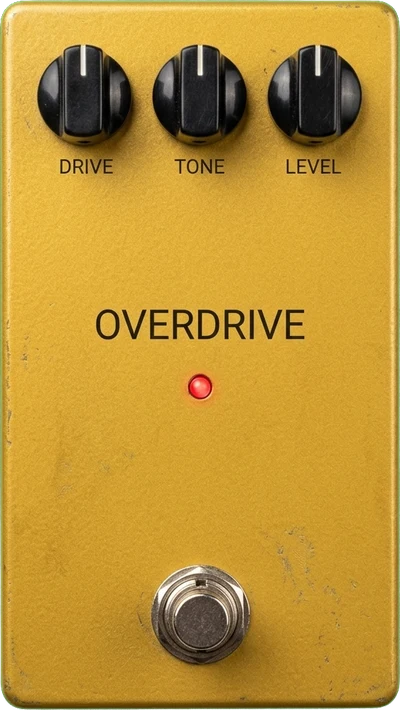
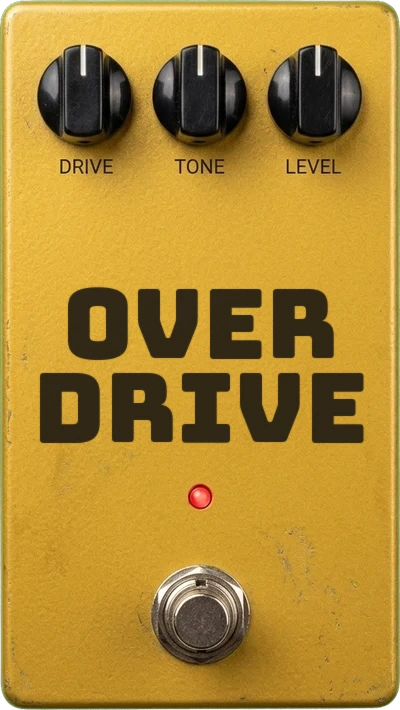
Photo skins: retitle pedals with display fonts, fill empty space, re-place LEDs
Big Muff/RAT 2/TS9 in Black Ops One; Overdrive/Compressor/Phase 90/Dyna Comp/Reverb in Bungee;
Chorus/Delay/Tremolo/Cry Baby in Righteous; SD-1 in Rubik Mono One. DS-1 keeps its own lettering.
Stacked names where the space is tall; Phase 90 and Compressor titles moved out of the value
band with the LED beside the footswitch; LEDs lowered on Overdrive/Tremolo/TS9/Dyna Comp.
CSS LED positions now match the photos (also fixes Big Muff, RAT 2, Cry Baby).

Claude-Session: https://claude.ai/code/session_01CWvZQgQQYmGZwEkUDMEGhG

Changed region(s): [[0.09, 0.4028, 0.93, 0.6507], [0.45, 0.6817, 0.54, 0.7437]]

diff --git a/js/pedal-registry.js b/js/pedal-registry.js
@@ -88,7 +88,7 @@ export const PEDAL_TYPES = [
   // ----- DYNAMICS -----
   {
     id: 'compressor', label: 'Compressor', category: 'dynamics', color: 'oklch(64% 0.03 250)',
-    skin: { src: 'img/compressor.webp', aspect: '400 / 723' },
+    skin: { src: 'img/compressor.webp?v=3', aspect: '400 / 723' },
     blurb: 'Evens out your dynamics — squashes loud notes and lifts quiet ones for a smoother, more consistent volume.',
     about: 'A compressor automatically reduces the volume of anything that crosses a threshold, then applies makeup gain to bring the overall level back up. The result is smoother, more consistent playing — quieter notes sustain longer and pick attacks feel less spiky. Classic for funk/country chicken-pickin\' and for tightening up a solo.',
     createNodes(ctx) {
@@ -112,7 +112,7 @@ export const PEDAL_TYPES = [
   },
   {
     id: 'vintagecomp', label: 'Dyna Comp', category: 'dynamics', color: 'oklch(55% 0.21 25)', brand: 'mxr', brandLabel: 'MXR',
-    skin: { src: 'img/vintagecomp.webp', aspect: '400 / 739' },
+    skin: { src: 'img/vintagecomp.webp?v=3', aspect: '400 / 739' },
     blurb: 'A single-pole ~1.5s envelope follower with just one knob — the MXR Dyna Comp\'s slow, simple squash.',
     about: 'Modeled on the MXR Dyna Comp: a CA3080 OTA driven by a single-pole envelope detector with a confirmed ~1.5s time constant (calculated from its own C8/R13 values), not the independently-adjustable fast attack/release of a modern compressor. Just one Sensitivity knob, no ratio/knee/attack/release controls, matching the real pedal.',
     createNodes(ctx) {
@@ -199,7 +199,7 @@ export const PEDAL_TYPES = [
   // ----- DRIVE -----
   {
     id: 'overdrive', label: 'Overdrive', category: 'drive', color: 'oklch(76% 0.15 85)',
-    skin: { src: 'img/overdrive.webp', aspect: '400 / 710' },
+    skin: { src: 'img/overdrive.webp?v=3', aspect: '400 / 710' },
     blurb: 'Warm, dynamic grit that cleans up when you play softer — classic blues/rock crunch.',
     about: 'Overdrive gently rounds off the peaks of your signal for a warm, tube-like breakup. It\'s touch-sensitive — dig in and it growls, back off your picking and it cleans up — making it the go-to for blues, classic rock rhythm, and pushing an amp that\'s already got some grit.',
     createNodes(ctx) {
@@ -217,7 +217,7 @@ export const PEDAL_TYPES = [
   },
   {
     id: 'ts9', label: 'TS9', category: 'drive', color: 'oklch(78% 0.18 145)', brand: 'ibanez', brandLabel: 'Ibanez',
-    skin: { src: 'img/ts9.webp', aspect: '400 / 731' },
+    skin: { src: 'img/ts9.webp?v=3', aspect: '400 / 731' },
     blurb: 'The Ibanez Tube Screamer\'s gentler, longer clipping shoulder — smoother breakup than a generic overdrive.',
     about: 'Modeled on the Ibanez TS9/TS808: two diodes clip symmetrically in an op-amp feedback loop, which follows an asinh-family curve rather than tanh — a much more gradual onset into saturation that never fully hard-saturates. The result breaks up more gently and smoothly than the generic Overdrive.',
     createNodes(ctx) {
@@ -235,7 +235,7 @@ export const PEDAL_TYPES = [
   },
   {
     id: 'sd1', label: 'SD-1', category: 'drive', color: 'oklch(88% 0.17 95)', brand: 'boss', brandLabel: 'BOSS',
-    skin: { src: 'img/sd1.webp', aspect: '400 / 799' },
+    skin: { src: 'img/sd1.webp?v=3', aspect: '400 / 799' },
     blurb: 'Like the TS9 but comparatively scooped and asymmetric — the Boss Super Overdrive.',
     about: 'Modeled on the Boss SD-1 Super Overdrive: same asinh-family clipping curve family as the TS9, but with confirmed asymmetric clipping (a small DC bias) and a comparatively scooped midrange rather than the TS9\'s more pronounced mids.',
     createNodes(ctx) {
@@ -273,7 +273,7 @@ export const PEDAL_TYPES = [
   },
   {
     id: 'ds1', label: 'DS-1', category: 'drive', color: 'oklch(70% 0.18 50)', brand: 'boss', brandLabel: 'BOSS',
-    skin: { src: 'img/ds1.webp?v=2', aspect: '400 / 935' },
+    skin: { src: 'img/ds1.webp?v=3', aspect: '400 / 935' },
     blurb: 'A hard, asymmetric shunt-clip with an asymmetric booster feeding it — the Boss DS-1.',
     about: 'Modeled on the Boss DS-1: diodes shunt the signal to AC ground for a hard-clipping character, fed by an asymmetric booster stage. Only 3 knobs (Dist/Tone/Level), matching the real pedal — no separate Mid control.',
     createNodes(ctx) {
@@ -364,7 +364,7 @@ export const PEDAL_TYPES = [
   },
   {
     id: 'rat2', label: 'Rat 2', category: 'drive', color: 'oklch(24% 0.01 260)',
-    skin: { src: 'img/rat2.webp', aspect: '400 / 718' },
+    skin: { src: 'img/rat2.webp?v=3', aspect: '400 / 718' },
     blurb: 'A harder-clipping op-amp fuzz-drive with a much wider Filter sweep than a typical tone knob.',
     about: 'Modeled on the ProCo Rat 2: an LM308 op-amp driving silicon diodes shunted across the feedback path for a harder clip than a typical overdrive, plus its "Filter" knob\'s real, unusually wide 475Hz-32kHz lowpass sweep.',
     createNodes(ctx) {
@@ -403,7 +403,7 @@ export const PEDAL_TYPES = [
   },
   {
     id: 'bigmuff', label: 'Big Muff Pi', category: 'drive', color: 'oklch(80% 0.01 260)', brand: 'ehx', brandLabel: 'electro-harmonix',
-    skin: { src: 'img/bigmuff.webp', aspect: '400 / 658' },
+    skin: { src: 'img/bigmuff.webp?v=3', aspect: '400 / 658' },
     blurb: 'Two clipping stages (soft, then hard) feeding a scooped-mid tone crossfade — the Electro-Harmonix Big Muff Pi.',
     about: 'Modeled on the Electro-Harmonix Big Muff Pi: 2 cascaded clipping stages (the first "softly clips," the second "repeats the operation... creating the hard clip," confirmed via a direct circuit teardown), feeding a real passive-style Tone control that crossfades between a lowpass and a highpass branch rather than one simple filter — which is what produces its ~13.5dB scooped-mid dip at center.',
     createNodes(ctx) {
@@ -493,7 +493,7 @@ export const PEDAL_TYPES = [
   },
   {
     id: 'crybaby', label: 'Cry Baby', category: 'filter', color: 'oklch(18% 0.01 260)', shape: 'wedge',
-    skin: { src: 'img/crybaby.webp', aspect: '400 / 1037' },
+    skin: { src: 'img/crybaby.webp?v=3', aspect: '400 / 1037' },
     blurb: 'A vocal wah tuned to the real Dunlop GCB-95\'s exact sweep range.',
     about: 'Modeled on the Dunlop Cry Baby GCB-95: a fixed 450Hz-1600Hz resonant sweep (the real circuit\'s L1/C2 values, confirmed from a teardown) with no exposed resonance knob, since the real pedal doesn\'t have one — just Treadle and Level.',
     createNodes(ctx) {
@@ -554,7 +554,7 @@ export const PEDAL_TYPES = [
   // ----- MODULATION -----
   {
     id: 'chorus', label: 'Chorus', category: 'modulation', color: 'oklch(70% 0.13 235)',
-    skin: { src: 'img/chorus.webp', aspect: '400 / 841' },
+    skin: { src: 'img/chorus.webp?v=3', aspect: '400 / 841' },
     blurb: 'Thick, shimmery doubling — like two guitars playing slightly out of tune together.',
     about: 'Chorus splits your signal, delays and pitch-modulates one copy, and blends it back with the dry signal, creating a lush, shimmering, slightly detuned doubling effect. Classic for clean 80s rhythm tones and adding width/shimmer to a clean or lightly-driven sound.',
     createNodes(ctx) {
@@ -633,7 +633,7 @@ export const PEDAL_TYPES = [
   },
   {
     id: 'phase90', label: 'Phase 90', category: 'modulation', color: 'oklch(72% 0.18 55)', brand: 'mxr', brandLabel: 'MXR',
-    skin: { src: 'img/phase90.webp', aspect: '400 / 732' },
+    skin: { src: 'img/phase90.webp?v=3', aspect: '400 / 732' },
     blurb: 'The MXR Phase 90\'s real 4-stage circuit — 2 sweeping notches instead of the generic Phaser\'s 3.',
     about: 'Modeled on the MXR Phase 90: 4 JFET-based phase-shifting stages create 2 sweeping notches (confirmed directly from a circuit teardown), vs. the generic Phaser\'s 6 stages/3 notches.',
     createNodes(ctx) {
@@ -665,7 +665,7 @@ export const PEDAL_TYPES = [
   },
   {
     id: 'tremolo', label: 'Tremolo', category: 'modulation', color: 'oklch(65% 0.12 185)',
-    skin: { src: 'img/tremolo.webp', aspect: '400 / 726' },
+    skin: { src: 'img/tremolo.webp?v=3', aspect: '400 / 726' },
     blurb: 'Rhythmic volume pulsing — the sound turns up and down in a steady wave.',
     about: 'Tremolo rapidly and rhythmically raises and lowers your volume, creating a pulsing, throbbing effect. Simple but iconic — surf rock, spaghetti-western twang, and dreamy indie tones all lean on tremolo.',
     createNodes(ctx) {
@@ -860,7 +860,7 @@ export const PEDAL_TYPES = [
   // ----- TIME-BASED -----
   {
     id: 'delay', label: 'Delay', category: 'time', color: 'oklch(62% 0.15 55)',
-    skin: { src: 'img/delay.webp', aspect: '400 / 750' },
+    skin: { src: 'img/delay.webp?v=3', aspect: '400 / 750' },
     blurb: 'Distinct echoes that repeat and fade — classic slap-back to ambient trailing repeats.',
     about: 'Delay records your signal and plays it back after a set time, repeating and fading with each pass. Short times give a tight slap-back (rockabilly), medium times give rhythmic echoes, and long times with high feedback build up into a wash of trailing repeats.',
     createNodes(ctx) {
@@ -884,7 +884,7 @@ export const PEDAL_TYPES = [
   },
   {
     id: 'reverb', label: 'Reverb', category: 'time', color: 'oklch(45% 0.13 320)',
-    skin: { src: 'img/reverb.jpg?v=2', aspect: '347 / 612' },
+    skin: { src: 'img/reverb.jpg?v=3', aspect: '347 / 612' },
     blurb: 'Simulates the natural echo of a room, hall, or spring tank — adds space and depth.',
     about: 'Reverb simulates the reflections of a physical space, from a tight practice room to a huge hall to a classic spring tank. It doesn\'t repeat like delay — instead it blurs into a smooth wash that gives your tone a sense of size and depth.',
     async createNodes(ctx) {

diff --git a/style.css b/style.css
@@ -1654,7 +1654,7 @@ input[type="range"]:focus-visible { outline: 2px solid var(--brass); outline-off
 
 /* GENERATED SKINS */
 /* ts9: generated by pipe.py (img/ts9.webp, 400x731) */
-.photo-skin[data-pedal-type="ts9"] { --fs-x: 14.0%; --fs-y: 76.0%; --fs-w: 72.0%; --fs-h: 20.0%; --fs-r: 6px; --led-x: 50.0%; --led-y: 54.7%; --led-d: 14px; }
+.photo-skin[data-pedal-type="ts9"] { --fs-x: 14.0%; --fs-y: 76.0%; --fs-w: 72.0%; --fs-h: 20.0%; --fs-r: 6px; --led-x: 50.0%; --led-y: 68.5%; --led-d: 14px; }
 .photo-skin[data-pedal-type="ts9"] .knob-row:nth-child(1) { --kx: 42.7px; --ky: 48.2px; --kd: 51.3px; --col: 21.3%; --vy: 28.6%; --sy: 33.6%; --sw: 23.5%; }
 .photo-skin[data-pedal-type="ts9"] .knob-row:nth-child(2) { --kx: 100.0px; --ky: 48.2px; --kd: 51.3px; --col: 50.0%; --vy: 28.6%; --sy: 33.6%; --sw: 23.5%; }
 .photo-skin[data-pedal-type="ts9"] .knob-row:nth-child(3) { --kx: 157.3px; --ky: 48.2px; --kd: 51.3px; --col: 78.7%; --vy: 28.6%; --sy: 33.6%; --sw: 23.5%; }
@@ -1665,19 +1665,19 @@ input[type="range"]:focus-visible { outline: 2px solid var(--brass); outline-off
 .photo-skin[data-pedal-type="delay"] .knob-row:nth-child(3) { --kx: 121.5px; --ky: 39.8px; --kd: 37.0px; --col: 60.7%; --vy: 22.5%; --sy: 25.8%; --sw: 17.6%; }
 .photo-skin[data-pedal-type="delay"] .knob-row:nth-child(4) { --kx: 164.5px; --ky: 39.8px; --kd: 37.0px; --col: 82.2%; --vy: 22.5%; --sy: 25.8%; --sw: 17.6%; }
 /* compressor: generated by pipe.py (img/compressor.webp, 400x723) */
-.photo-skin[data-pedal-type="compressor"] { --fs-x: calc(50.0% - 26px); --fs-y: calc(87.0% - 26px); --fs-w: 52px; --fs-h: 52px; --led-x: 50.0%; --led-y: 74.0%; --led-d: 14px; }
+.photo-skin[data-pedal-type="compressor"] { --fs-x: calc(50.0% - 26px); --fs-y: calc(87.0% - 26px); --fs-w: 52px; --fs-h: 52px; --led-x: 80.0%; --led-y: 87.0%; --led-d: 14px; }
 .photo-skin[data-pedal-type="compressor"] .knob-row:nth-child(1) { --kx: 42.7px; --ky: 47.7px; --kd: 51.3px; --col: 21.3%; --vy: 28.6%; --sy: 33.6%; --sw: 23.5%; }
 .photo-skin[data-pedal-type="compressor"] .knob-row:nth-child(2) { --kx: 100.0px; --ky: 47.7px; --kd: 51.3px; --col: 50.0%; --vy: 28.6%; --sy: 33.6%; --sw: 23.5%; }
 .photo-skin[data-pedal-type="compressor"] .knob-row:nth-child(3) { --kx: 157.3px; --ky: 47.7px; --kd: 51.3px; --col: 78.7%; --vy: 28.6%; --sy: 33.6%; --sw: 23.5%; }
 .photo-skin[data-pedal-type="compressor"] .knob-row:nth-child(4) { --kx: 57.0px; --ky: 166.0px; --kd: 52.0px; --col: 28.5%; --vy: 61.4%; --sy: 66.6%; --sw: 29.9%; }
 .photo-skin[data-pedal-type="compressor"] .knob-row:nth-child(5) { --kx: 143.0px; --ky: 166.0px; --kd: 52.0px; --col: 71.5%; --vy: 61.4%; --sy: 66.6%; --sw: 29.9%; }
 /* bigmuff: generated by pipe.py (img/bigmuff.webp, 400x658) */
-.photo-skin[data-pedal-type="bigmuff"] { --fs-x: calc(50.0% - 26px); --fs-y: calc(87.0% - 26px); --fs-w: 52px; --fs-h: 52px; --led-x: 50.0%; --led-y: 54.7%; --led-d: 14px; }
+.photo-skin[data-pedal-type="bigmuff"] { --fs-x: calc(50.0% - 26px); --fs-y: calc(87.0% - 26px); --fs-w: 52px; --fs-h: 52px; --led-x: 78.0%; --led-y: 74.0%; --led-d: 14px; }
 .photo-skin[data-pedal-type="bigmuff"] .knob-row:nth-child(1) { --kx: 42.7px; --ky: 43.4px; --kd: 51.3px; --col: 21.3%; --vy: 28.6%; --sy: 33.6%; --sw: 23.5%; }
 .photo-skin[data-pedal-type="bigmuff"] .knob-row:nth-child(2) { --kx: 100.0px; --ky: 43.4px; --kd: 51.3px; --col: 50.0%; --vy: 28.6%; --sy: 33.6%; --sw: 23.5%; }
 .photo-skin[data-pedal-type="bigmuff"] .knob-row:nth-child(3) { --kx: 157.3px; --ky: 43.4px; --kd: 51.3px; --col: 78.7%; --vy: 28.6%; --sy: 33.6%; --sw: 23.5%; }
 /* crybaby: generated by pipe.py (img/crybaby.webp, 400x1037) */
-.photo-skin[data-pedal-type="crybaby"] { --fs-x: 8.0%; --fs-y: 5.0%; --fs-w: 84.0%; --fs-h: 62.0%; --fs-r: 6px; --led-x: 85.0%; --led-y: 71.0%; --led-d: 14px; }
+.photo-skin[data-pedal-type="crybaby"] { --fs-x: 8.0%; --fs-y: 5.0%; --fs-w: 84.0%; --fs-h: 62.0%; --fs-r: 6px; --led-x: 82.7%; --led-y: 72.3%; --led-d: 14px; }
 .photo-skin[data-pedal-type="crybaby"] .knob-row:nth-child(1) { --col: 28.5%; --vy: 81.0%; --sy: 89.0%; --sw: 18.0%; }
 .photo-skin[data-pedal-type="crybaby"] .knob-row:nth-child(1) > .knob-dial-wrap { display: none; }
 .photo-skin[data-pedal-type="crybaby"] .knob-row:nth-child(1) > label { font-size: 10px; color: #fff; text-shadow: 0 1px 2px #000; }
@@ -1691,7 +1691,7 @@ input[type="range"]:focus-visible { outline: 2px solid var(--brass); outline-off
 .photo-skin[data-pedal-type="chorus"] .knob-row:nth-child(3) { --kx: 121.5px; --ky: 44.7px; --kd: 37.0px; --col: 60.7%; --vy: 22.5%; --sy: 25.8%; --sw: 17.6%; }
 .photo-skin[data-pedal-type="chorus"] .knob-row:nth-child(4) { --kx: 164.5px; --ky: 44.7px; --kd: 37.0px; --col: 82.2%; --vy: 22.5%; --sy: 25.8%; --sw: 17.6%; }
 /* rat2: generated by pipe.py (img/rat2.webp, 400x718) */
-.photo-skin[data-pedal-type="rat2"] { --fs-x: calc(50.0% - 26px); --fs-y: calc(87.0% - 26px); --fs-w: 52px; --fs-h: 52px; --led-x: 50.0%; --led-y: 54.7%; --led-d: 14px; }
+.photo-skin[data-pedal-type="rat2"] { --fs-x: calc(50.0% - 26px); --fs-y: calc(87.0% - 26px); --fs-w: 52px; --fs-h: 52px; --led-x: 49.8%; --led-y: 69.4%; --led-d: 14px; }
 .photo-skin[data-pedal-type="rat2"] .knob-row:nth-child(1) { --kx: 42.7px; --ky: 47.3px; --kd: 51.3px; --col: 21.3%; --vy: 28.6%; --sy: 33.6%; --sw: 23.5%; }
 .photo-skin[data-pedal-type="rat2"] .knob-row:nth-child(2) { --kx: 100.0px; --ky: 47.3px; --kd: 51.3px; --col: 50.0%; --vy: 28.6%; --sy: 33.6%; --sw: 23.5%; }
 .photo-skin[data-pedal-type="rat2"] .knob-row:nth-child(3) { --kx: 157.3px; --ky: 47.3px; --kd: 51.3px; --col: 78.7%; --vy: 28.6%; --sy: 33.6%; --sw: 23.5%; }
@@ -1701,20 +1701,20 @@ input[type="range"]:focus-visible { outline: 2px solid var(--brass); outline-off
 .photo-skin[data-pedal-type="sd1"] .knob-row:nth-child(2) { --kx: 100.0px; --ky: 49.6px; --kd: 51.3px; --col: 50.0%; --vy: 26.7%; --sy: 31.3%; --sw: 23.5%; }
 .photo-skin[data-pedal-type="sd1"] .knob-row:nth-child(3) { --kx: 157.3px; --ky: 49.6px; --kd: 51.3px; --col: 78.7%; --vy: 26.7%; --sy: 31.3%; --sw: 23.5%; }
 /* phase90: generated by pipe.py (img/phase90.webp, 400x732) */
-.photo-skin[data-pedal-type="phase90"] { --fs-x: calc(50.0% - 26px); --fs-y: calc(87.0% - 26px); --fs-w: 52px; --fs-h: 52px; --led-x: 50.0%; --led-y: 74.0%; --led-d: 14px; }
+.photo-skin[data-pedal-type="phase90"] { --fs-x: calc(50.0% - 26px); --fs-y: calc(87.0% - 26px); --fs-w: 52px; --fs-h: 52px; --led-x: 80.0%; --led-y: 87.0%; --led-d: 14px; }
 .photo-skin[data-pedal-type="phase90"] .knob-row:nth-child(1) { --kx: 57.0px; --ky: 48.6px; --kd: 52.0px; --col: 28.5%; --vy: 28.8%; --sy: 33.9%; --sw: 29.9%; }
 .photo-skin[data-pedal-type="phase90"] .knob-row:nth-child(2) { --kx: 143.0px; --ky: 48.6px; --kd: 52.0px; --col: 71.5%; --vy: 28.8%; --sy: 33.9%; --sw: 29.9%; }
 .photo-skin[data-pedal-type="phase90"] .knob-row:nth-child(3) { --kx: 57.0px; --ky: 169.3px; --kd: 52.0px; --col: 28.5%; --vy: 61.8%; --sy: 66.9%; --sw: 29.9%; }
 .photo-skin[data-pedal-type="phase90"] .knob-row:nth-child(4) { --kx: 143.0px; --ky: 169.3px; --kd: 52.0px; --col: 71.5%; --vy: 61.8%; --sy: 66.9%; --sw: 29.9%; }
 /* vintagecomp: generated by pipe.py (img/vintagecomp.webp, 400x739) */
-.photo-skin[data-pedal-type="vintagecomp"] { --fs-x: calc(50.0% - 26px); --fs-y: calc(87.0% - 26px); --fs-w: 52px; --fs-h: 52px; --led-x: 50.0%; --led-y: 58.9%; --led-d: 14px; }
+.photo-skin[data-pedal-type="vintagecomp"] { --fs-x: calc(50.0% - 26px); --fs-y: calc(87.0% - 26px); --fs-w: 52px; --fs-h: 52px; --led-x: 50.0%; --led-y: 72.0%; --led-d: 14px; }
 .photo-skin[data-pedal-type="vintagecomp"] .knob-row:nth-child(1) { --kx: 100.0px; --ky: 53.2px; --kd: 60.0px; --col: 50.0%; --vy: 31.4%; --sy: 37.4%; --sw: 34.5%; }
 /* tremolo: generated by pipe.py (img/tremolo.webp, 400x726) */
-.photo-skin[data-pedal-type="tremolo"] { --fs-x: calc(50.0% - 26px); --fs-y: calc(87.0% - 26px); --fs-w: 52px; --fs-h: 52px; --led-x: 50.0%; --led-y: 55.0%; --led-d: 14px; }
+.photo-skin[data-pedal-type="tremolo"] { --fs-x: calc(50.0% - 26px); --fs-y: calc(87.0% - 26px); --fs-w: 52px; --fs-h: 52px; --led-x: 50.0%; --led-y: 70.0%; --led-d: 14px; }
 .photo-skin[data-pedal-type="tremolo"] .knob-row:nth-child(1) { --kx: 57.0px; --ky: 48.2px; --kd: 52.0px; --col: 28.5%; --vy: 28.8%; --sy: 33.9%; --sw: 29.9%; }
 .photo-skin[data-pedal-type="tremolo"] .knob-row:nth-child(2) { --kx: 143.0px; --ky: 48.2px; --kd: 52.0px; --col: 71.5%; --vy: 28.8%; --sy: 33.9%; --sw: 29.9%; }
 /* overdrive: generated by pipe.py (img/overdrive.webp, 400x710) */
-.photo-skin[data-pedal-type="overdrive"] { --fs-x: calc(50.0% - 26px); --fs-y: calc(87.0% - 26px); --fs-w: 52px; --fs-h: 52px; --led-x: 50.0%; --led-y: 54.7%; --led-d: 14px; }
+.photo-skin[data-pedal-type="overdrive"] { --fs-x: calc(50.0% - 26px); --fs-y: calc(87.0% - 26px); --fs-w: 52px; --fs-h: 52px; --led-x: 50.0%; --led-y: 70.0%; --led-d: 14px; }
 .photo-skin[data-pedal-type="overdrive"] .knob-row:nth-child(1) { --kx: 42.7px; --ky: 46.8px; --kd: 51.3px; --col: 21.3%; --vy: 28.6%; --sy: 33.6%; --sw: 23.5%; }
 .photo-skin[data-pedal-type="overdrive"] .knob-row:nth-child(2) { --kx: 100.0px; --ky: 46.8px; --kd: 51.3px; --col: 50.0%; --vy: 28.6%; --sy: 33.6%; --sw: 23.5%; }
 .photo-skin[data-pedal-type="overdrive"] .knob-row:nth-child(3) { --kx: 157.3px; --ky: 46.8px; --kd: 51.3px; --col: 78.7%; --vy: 28.6%; --sy: 33.6%; --sw: 23.5%; }

diff --git a/test-layout.html b/test-layout.html
@@ -15,9 +15,9 @@
     const w = frame.contentWindow;
     const ampId = location.search.includes('acoustic') ? 'acoustic' : 'clean';
     await w.eval(`(async () => {
-      const ui = await import('/js/ui.js?v=26');
-      const pr = await import('/js/pedal-registry.js?v=20');
-      const ar = await import('/js/amp-registry.js?v=24');
+      const ui = await import('/js/ui.js?v=28');
+      const pr = await import('/js/pedal-registry.js?v=22');
+      const ar = await import('/js/amp-registry.js?v=26');
       const mk = (id, getter, kind) => {
         const typeDef = getter(id);
         const params = {}; typeDef.params.forEach((p) => { params[p.key] = p.default; });

diff --git a/js/main.js b/js/main.js
@@ -1,5 +1,5 @@
-import { AudioEngine } from './audio-engine.js?v=36';
-import { renderChain, renderAmp, showAddMenu, showDemoMenu, showSavePresetPopover, showPresetMenu, showInfoPopover, drawScope, drawWaveform, drawStaticWave } from './ui.js?v=26';
+import { AudioEngine } from './audio-engine.js?v=38';
+import { renderChain, renderAmp, showAddMenu, showDemoMenu, showSavePresetPopover, showPresetMenu, showInfoPopover, drawScope, drawWaveform, drawStaticWave } from './ui.js?v=28';
 import { renderPreviewWaveform } from './wave-preview.js';
 import { DEMO_PRESETS } from './demo-presets.js?v=2';
 import { Tuner, GUITAR_STRINGS, centsFromTarget } from './tuner.js?v=3';

diff --git a/index.html b/index.html
@@ -4,7 +4,7 @@
 <meta charset="utf-8">
 <title>Guitar FX Pedalboard</title>
 <meta name="viewport" content="width=device-width, initial-scale=1">
-<link rel="stylesheet" href="style.css?v=58">
+<link rel="stylesheet" href="style.css?v=60">
 <script>
   (function () {
     var root = document.documentElement;
@@ -550,6 +550,6 @@
   </div>
 </template>
 
-<script type="module" src="js/main.js?v=62"></script>
+<script type="module" src="js/main.js?v=64"></script>
 </body>
 </html>

diff --git a/js/audio-engine.js b/js/audio-engine.js
@@ -1,5 +1,5 @@
-import { getPedalType } from './pedal-registry.js?v=20';
-import { getAmpType } from './amp-registry.js?v=24';
+import { getPedalType } from './pedal-registry.js?v=22';
+import { getAmpType } from './amp-registry.js?v=26';
 
 // Keep in sync with WORKLET_MODULES in wave-preview.js (same URLs, so both share one HTTP cache entry).
 const WORKLET_URLS = [

diff --git a/js/ui.js b/js/ui.js
@@ -1,5 +1,5 @@
-import { PEDAL_TYPES, CATEGORIES } from './pedal-registry.js?v=20';
-import { AMP_TYPES } from './amp-registry.js?v=24';
+import { PEDAL_TYPES, CATEGORIES } from './pedal-registry.js?v=22';
+import { AMP_TYPES } from './amp-registry.js?v=26';
 
 function stepFor(param) {
   if (param.step !== undefined) return param.step;

diff --git a/js/amp-registry.js b/js/amp-registry.js
@@ -1,5 +1,5 @@
 import { generateCabIR, generateAcousticBodyIR } from './ir-synth.js?v=4';
-import { driveCurve } from './pedal-registry.js?v=20';
+import { driveCurve } from './pedal-registry.js?v=22';
 
 function makeBand(ctx, band) {
   const f = ctx.createBiquadFilter();
